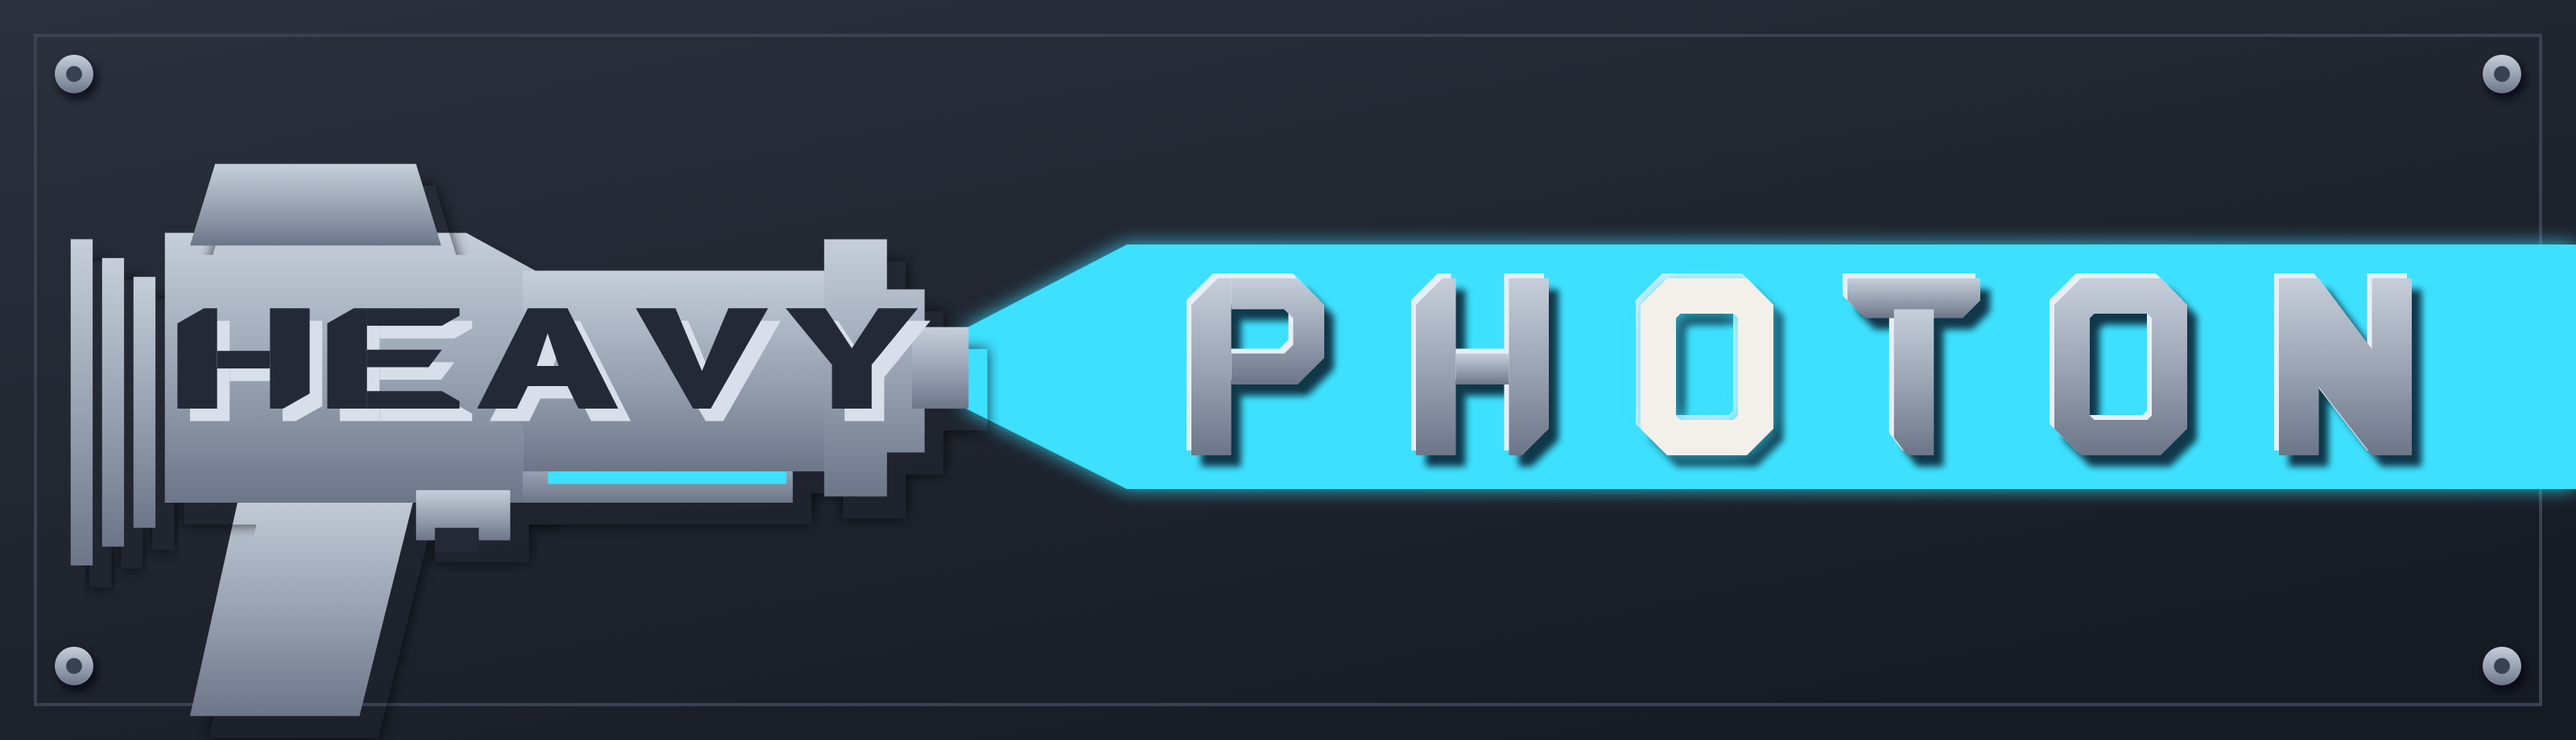
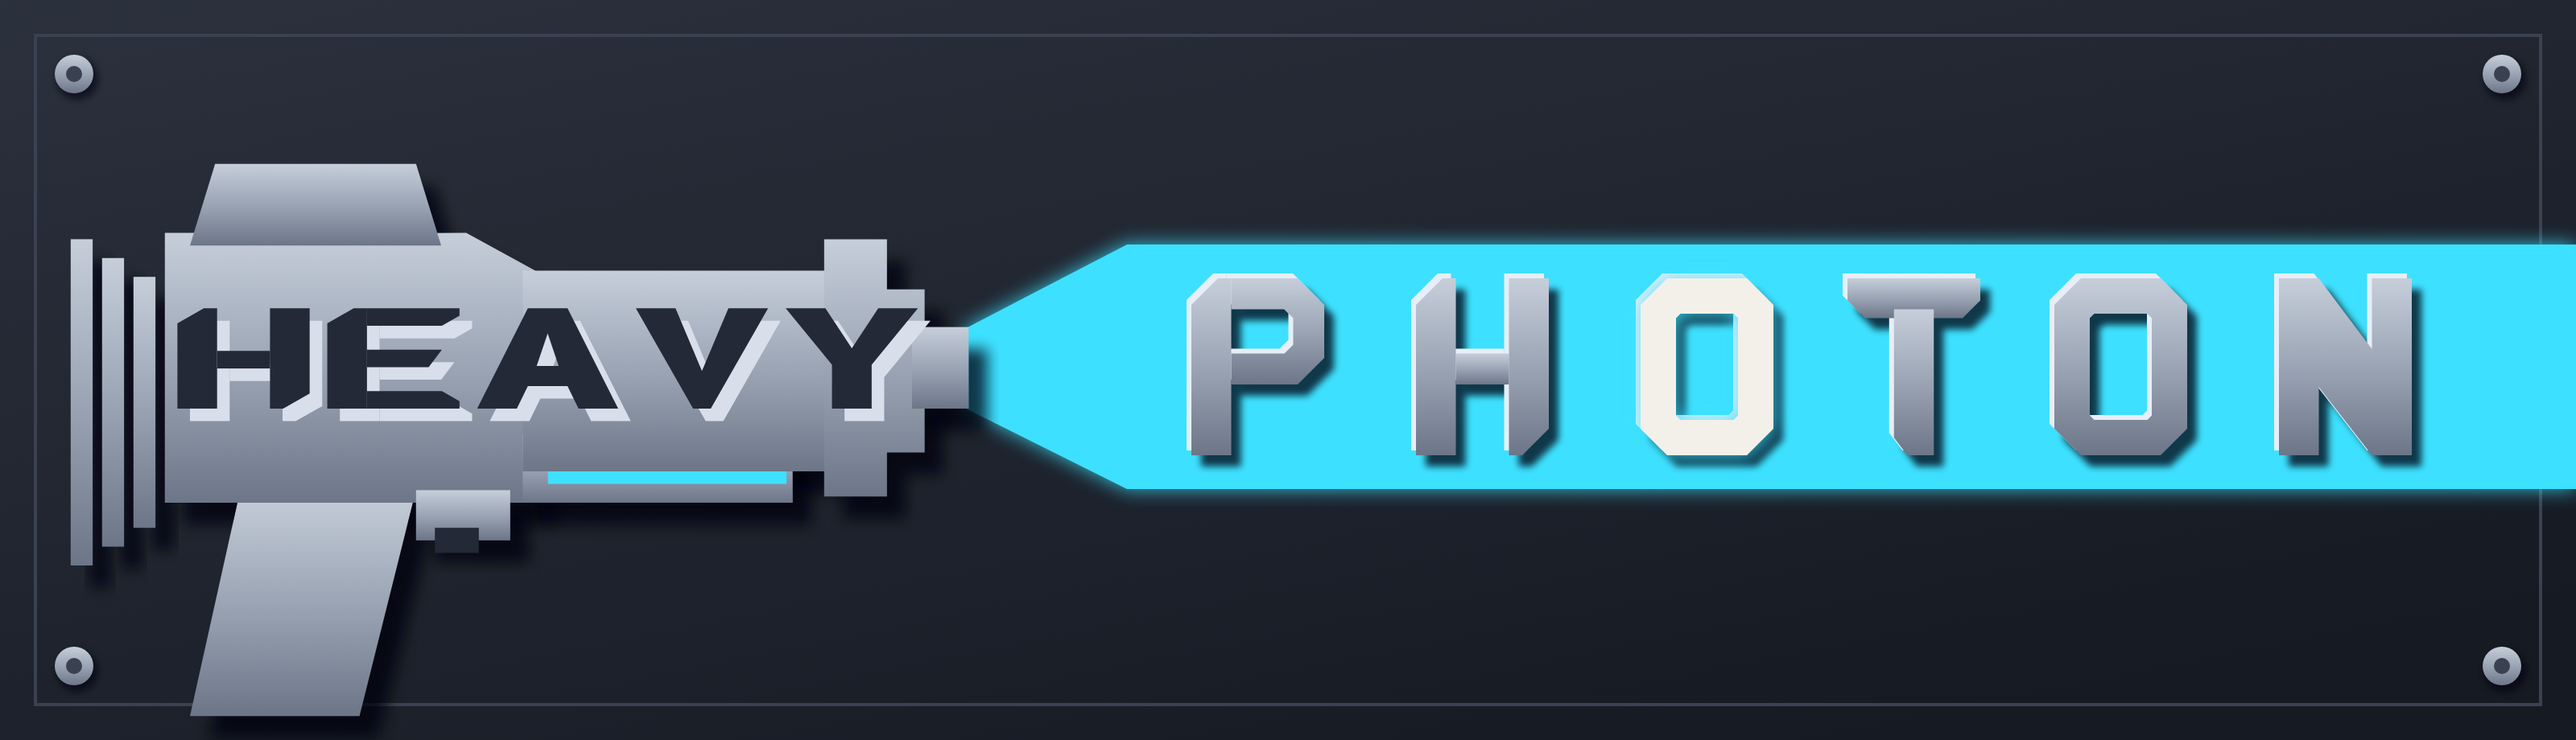
Fix shifted shadow mask on steel cuts
The shadow offset transform sat on the same group as the gunout mask,
dragging the mask 6,7px with it - leaking dark slivers along interior
part edges and misclipping the outer drop shadow on both the compact
and branded steel cuts. The mask now wraps an untransformed group.

Claude-Session: https://claude.ai/code/session_01GDhheF8L6mvevw6cngMkTc

diff --git a/branding/genlogos.py b/branding/genlogos.py
@@ -637,8 +637,9 @@ def raygun_v2_branded_steel():
     for name, el in branded_shapes():
         objs.append(
             f'<g id="{name}">'
-            f'<g mask="url(#gunout2)" fill="#04060A" opacity="0.75" '
-            f'filter="url(#soften2)" transform="translate(6 7)">{el}</g>'
+            f'<g mask="url(#gunout2)">'
+            f'<g fill="#04060A" opacity="0.75" filter="url(#soften2)" '
+            f'transform="translate(6 7)">{el}</g></g>'
             f'<g fill="url(#steel2)">{el}</g>'
             f'{branded_extras(name, CYAN, "#232936")}</g>')
     heavy = wordmark2_grouped(
@@ -780,8 +781,9 @@ def raygun_v2_compact_steel():
     for name, el in COMPACT_SHAPES:
         objs.append(
             f'<g id="{name}">'
-            f'<g mask="url(#gunout)" fill="#04060A" opacity="0.75" '
-            f'filter="url(#soften3)" transform="translate(6 7)">{el}</g>'
+            f'<g mask="url(#gunout)">'
+            f'<g fill="#04060A" opacity="0.75" filter="url(#soften3)" '
+            f'transform="translate(6 7)">{el}</g></g>'
             f'<g fill="url(#steel3)">{el}</g>'
             f'{compact_extras(name, CYAN, "#232936")}</g>')
     # debossed words: each glyph group stacks its highlight + dark stamp
